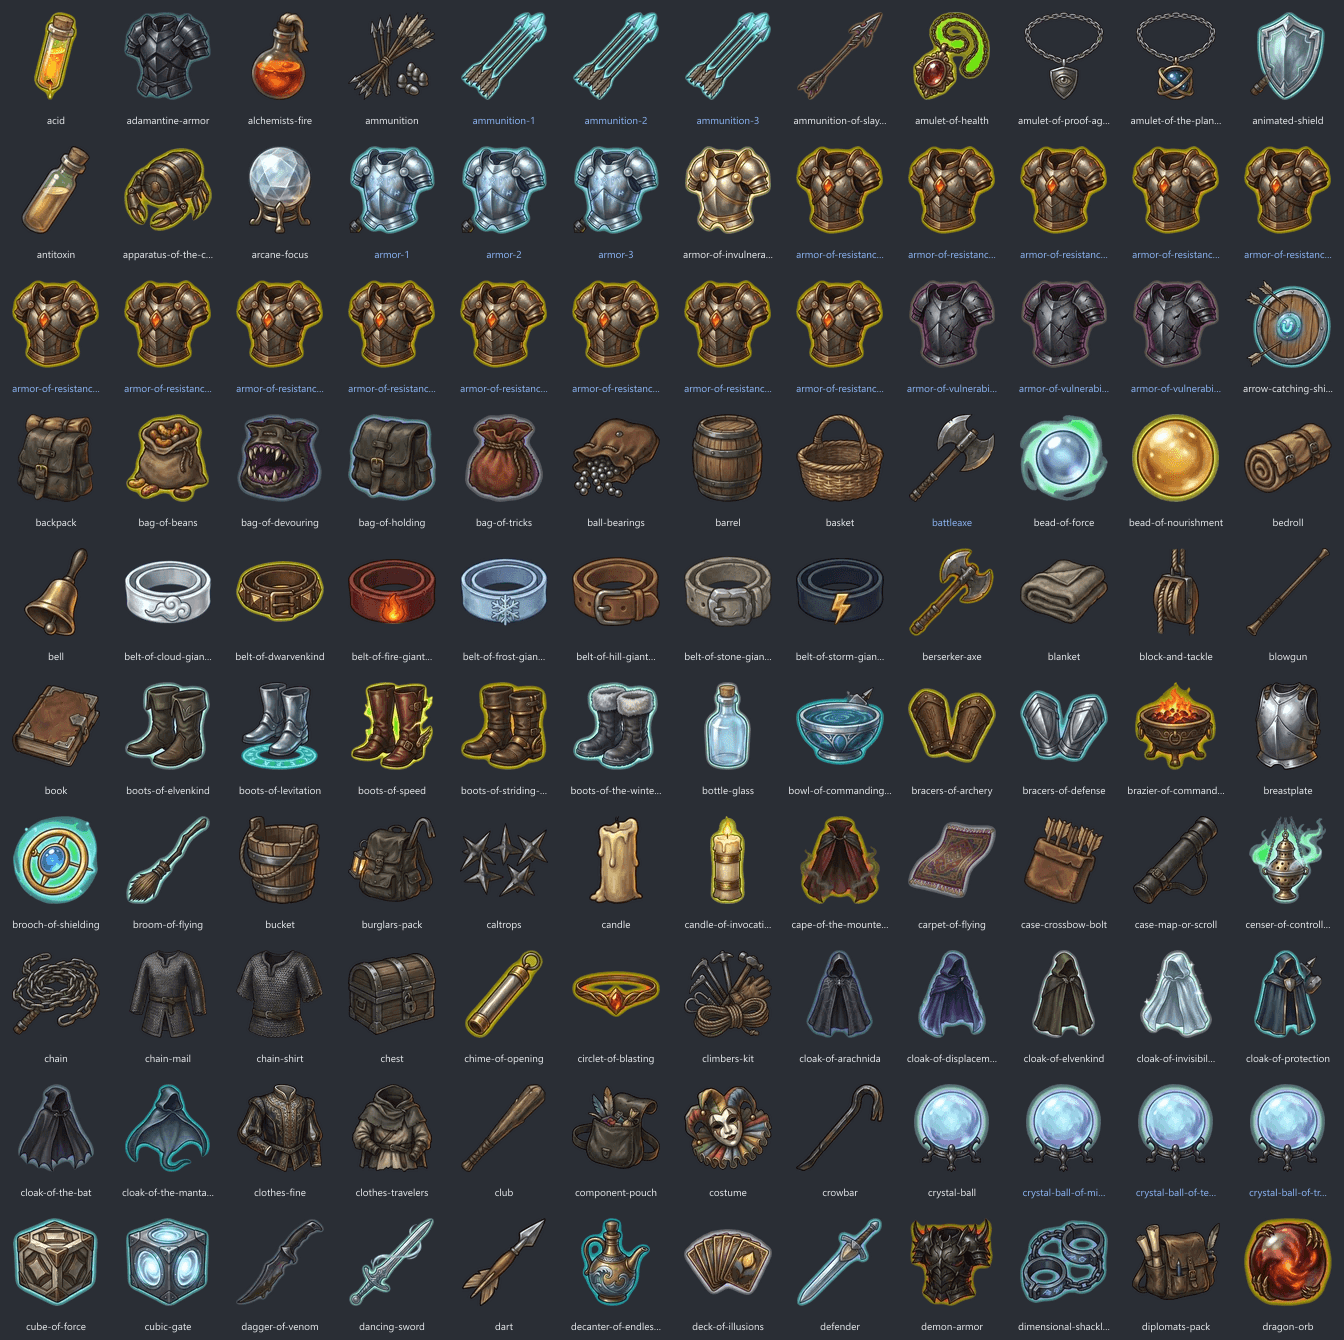
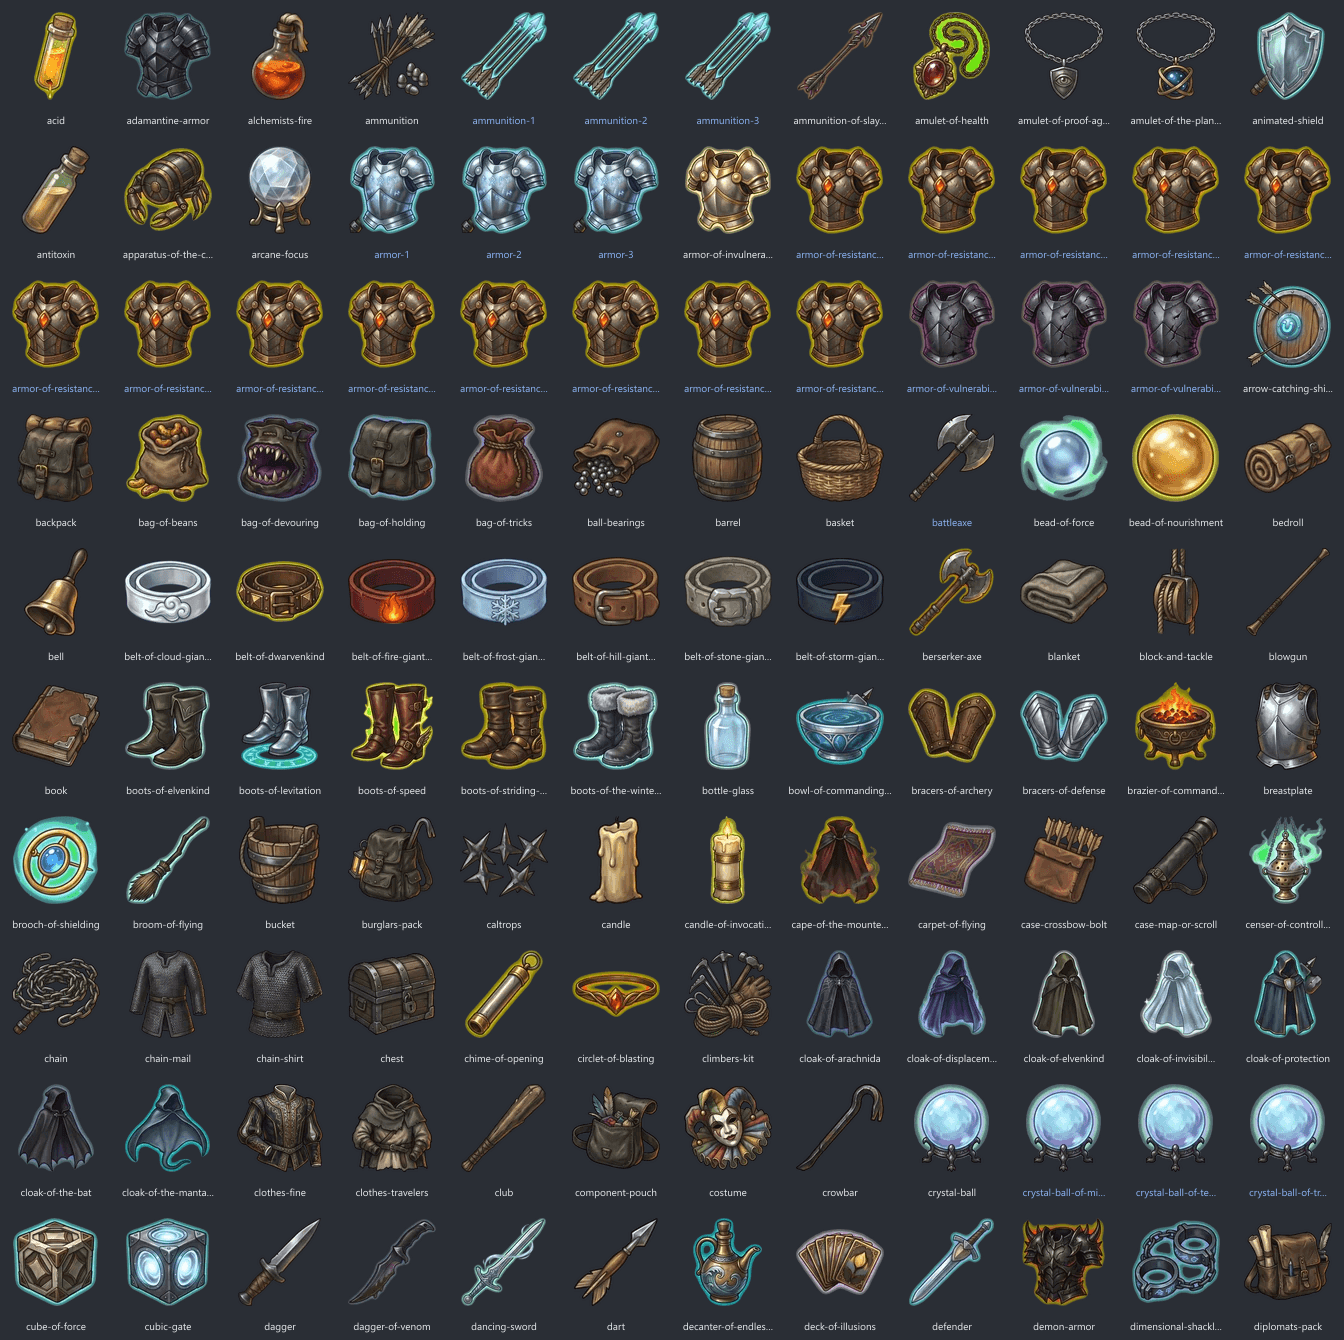
Eşya ikonları tamam: duzeltme-09 ve üç silah hücresi (449/449)
- silah-1 #6 mace, #11 light-crossbow, silah-2 #3 lance bağlandı (hücreler temiz).
- duzeltme-09.jpg (5×2): dagger, warhammer, spyglass ve dört iyileştirme iksiri; varyant-1#4 ve donanim-05#3 çözüldü.
- tamDespill hücrelerinde yarı saydam hale G ≤ (R+B)/2 (sarı-yeşil hale altına döndü).
- Rapor: yeniden üretilecekte açık/çözüldü; ikonsuz 0. dd-gorsel yenilendi.
- Test değerleri: galeri.test eksik eşya 5 → 0 (ikonlar tamamlandı); esyaIkon.test eksik sayfayı atlar, dosyası olan sayfanın işlendiğini sınar.

diff --git a/src/dungeondex/esyaIkon.test.ts b/src/dungeondex/esyaIkon.test.ts
@@ -4,7 +4,7 @@
  * public/esya yalnız dosya adıyla denetlenir.
  */
 import { describe, expect, it } from 'vitest';
-import { bagla, dosyaAdi, esle, hucreler, oyunKayitlari, plan, varyantEsle, type Manifest } from '../../scripts/esya-ikon.mjs';
+import { bagla, dosyaAdi, esle, hucreler, oyunKayitlari, plan, sayfaAdi, varyantEsle, type Manifest } from '../../scripts/esya-ikon.mjs';
 import manifestJson from '../../data/esya-ikon-sayfalar.json';
 
 const manifest = manifestJson as unknown as Manifest;
@@ -12,6 +12,8 @@ const manifest = manifestJson as unknown as Manifest;
 const ad = (f: string) => f.slice(f.lastIndexOf('/') + 1);
 const ESYA = Object.keys(import.meta.glob('/public/esya/*.webp')).map(ad);
 const KUCUK = new Set(Object.keys(import.meta.glob('/public/esya/kucuk/*.webp')).map(ad));
+/** assets-ham/esya ham sayfa adları (yalnız ad; görsel açılmaz, depo dışı: CI'da boş). */
+const HAM = new Set(Object.keys(import.meta.glob('/assets-ham/esya/*.{jpg,png,webp}')).map(ad));
 
 describe('Eşya ikon hattı', () => {
   it('dosya adı: varyant kimliğinde / yerine --', () => {
@@ -72,15 +74,38 @@ describe('Eşya ikon hattı', () => {
   it('manifest: glif sayfaları yoksayılır; her sayfanın öğesi hücre sayısını aşmaz; public/esya yalnız bağlanan oyun kayıtları', () => {
     expect(manifest.yoksay).toEqual(expect.arrayContaining(['glif-1', 'glif-2']));
     for (const s of manifest.sayfalar) expect(s.ogeler.length, s.dosya).toBeLessThanOrEqual(s.kolon * s.satir);
-    if (!ESYA.length) return; // hat çalıştırılmamış (ham görseller depo dışı)
+    if (!ESYA.length) return; // hat çalıştırılmamış
     const kayitlar = oyunKayitlari();
-    const { cikti } = bagla(plan(esle(manifest, kayitlar).manifest, () => true).son, kayitlar);
     const oyun = new Set(kayitlar.map((k) => k.id));
-    for (const id of cikti.keys()) {
-      expect(ESYA.includes(`${dosyaAdi(id)}.webp`), id).toBe(true);
-      expect(KUCUK.has(`${dosyaAdi(id)}.webp`), id).toBe(true);
+    for (const f of ESYA) expect(KUCUK.has(f), f).toBe(true);
+    expect(KUCUK.size).toBe(ESYA.length);
+    // Tam karşılaştırma yalnız ham sayfalar yereldeyse (depo dışı); eksik sayfa hattaki gibi atlanır.
+    if (HAM.size) {
+      const { cikti } = bagla(plan(esle(manifest, kayitlar).manifest, (d: string) => HAM.has(d)).son, kayitlar);
+      for (const id of cikti.keys()) expect(ESYA.includes(`${dosyaAdi(id)}.webp`), id).toBe(true);
+      expect(ESYA.length).toBe(cikti.size);
+      // Dosyası olan her sayfa gerçekten işlenir: eksik diye atlanmaz ve her dolu hücresi ya kaydın son konumu ya da sonraki sayfaca ezilmiş.
+      const es = esle(manifest, kayitlar).manifest;
+      const p = plan(es, (d: string) => HAM.has(d));
+      const yoksay = new Set(manifest.yoksay ?? []);
+      for (const s of es.sayfalar) {
+        const ad = sayfaAdi(s.dosya);
+        if (!HAM.has(s.dosya) || yoksay.has(ad)) continue;
+        expect(p.atlanan, s.dosya).not.toContain(ad);
+        s.ogeler.forEach((o, i) => {
+          if (!o?.id) return;
+          const yer = `${ad}#${i + 1}`; const son = p.son.get(o.id);
+          const sonYer = son ? `${son.sayfa}#${son.hucre}` : '';
+          expect(sonYer === yer || p.ezilen.some(([id, eski]) => id === o.id && eski === yer), `${yer} ${o.id}`).toBe(true);
+        });
+      }
+      if (HAM.has('duzeltme-09.jpg')) {
+        for (const id of ['dagger', 'warhammer', 'spyglass', 'potion-of-healing', 'potion-of-greater-healing', 'potion-of-superior-healing', 'potion-of-supreme-healing']) {
+          expect(cikti.get(id)?.sayfa, id).toBe('duzeltme-09');
+          expect(ESYA.includes(`${id}.webp`) && KUCUK.has(`${id}.webp`), id).toBe(true);
+        }
+      }
     }
-    expect(ESYA.length).toBe(cikti.size);
     for (const f of ESYA) expect(oyun.has(f.replace(/\.webp$/, '')), f).toBe(true); // yalnız oyun kayıtları
   });
 });

diff --git a/scripts/esya-ikon-rapor.ts b/scripts/esya-ikon-rapor.ts
@@ -89,15 +89,13 @@ ${Object.entries(belirsiz).map(([k, v]) => `- **${k}**: ${Array.isArray(v) ? v.m
 - Ezilen hücre: ${ezilen.length}. ${etkisiz.length ? `\`ayniGorsel\` uygulanamayan: ${etkisiz.join('; ')}.` : ''}
 - Tam despill (cam içi yeşil ton): ${liste(ham.tamDespill ?? [])}.
 
-## Yeniden üretilecek (${yeniden.length})
+## Yeniden üretilecek (açık ${yeniden.filter(([k]) => !ezilen.some(([, eski]: string[]) => eski === k)).length} / ${yeniden.length})
 
-${yeniden.length ? yeniden.map(([k, v]) => `- **${k}** ${v}`).join('\n') : '—'}
+${yeniden.length ? yeniden.map(([k, v]) => { const ez = ezilen.find(([, eski]: string[]) => eski === k); return `- **${k}** ${v}${ez ? ` — **çözüldü**: ${ez[2]} ezer` : ''}`; }).join('\n') : '—'}
 
 ## İkonu olmayan oyun kayıtları (${ikonsuz.length})
 
 ${['sihirli', 'donanım', 'silah', 'zırh'].map((t) => { const l = ikonsuz.filter((k) => k.tur === t); return `- **${t}** (${l.length}): ${liste(l.map((k) => k.id))}`; }).join('\n')}
-
-Yeni Gemini sayfası bu liste için yazılacak.
 
 ## Varyant eşleme (${es.varyant.length})
 

diff --git a/src/ui/galeri/galeri.test.tsx b/src/ui/galeri/galeri.test.tsx
@@ -24,8 +24,8 @@ describe('görsel galerisi', () => {
     const miss = filterRecords(all, '', true);
     expect(miss.length).toBeGreaterThan(0);
     expect(miss.every(([, r]) => r.durum !== 'var')).toBe(true);
-    // Eşya ikon hattından sonra (npm run esya-ikon + dd-gorsel) yalnız 5 silah ikonsuz: dagger, mace, light-crossbow, warhammer, lance.
-    expect(filterRecords(tabRecords('esya'), '', true).map(([id]) => id).sort()).toEqual(['dagger', 'lance', 'light-crossbow', 'mace', 'warhammer']);
+    // Eşya ikon hattından sonra (npm run esya-ikon + dd-gorsel; duzeltme-09 ile) her eşya kaydının ikonu var.
+    expect(filterRecords(tabRecords('esya'), '', true)).toEqual([]);
   });
 
   it('efekt şeritleri çözülüyor (fxPlan kaydı ya da durum döngüsü)', () => {

diff --git a/DECISIONS.md b/DECISIONS.md
@@ -11,8 +11,9 @@ Projede alınan içerik ve kural kararlarının kaydı. En yeni karar en üstte.
 
 - `npm run esya-ikon` (`scripts/esya-ikon.mjs`, sharp): manifest `data/esya-ikon-sayfalar.json` + `assets-ham/esya/` (depo dışı) → `public/esya/<kimlik>.webp` (256) ve `public/esya/kucuk/` (96); varyant kimliğinde `/` → `--`. Zemin dört köşeden; kenardan taşkın dolgu, yarı saydam kenarda zeminden ayrıştırma (unmix) + 6 px despill; kapalı deliklerde yalnız zemine çok yakın yeşil silinir (cam iç hacmi kalır); en büyük bileşenin %6'sı altı atılır (`hepsiniTut` hariç). Hücre kırpımı her yöne %15 genişletilir, yalnız ağırlık merkezi asıl hücrede olan bileşen tutulur (silah-4 plate armor, donanım-05 çadır komşuya taşıyordu). Kırpma kutusu α > 48 (yaygın parıltı kuyruğu kesilir). `--kontrol` etiketli kontrol görselleri `harita/belgeler/ESYA-IKON-KONTROL/`.
 - `ayniGorsel` hedefin sonraki sayfadaki kendi hücresini ezmez (potion-of-healing duzeltme-7'de).
-- **Kimlik bağlama (kullanıcı kararı, onaydan sonra):** varyant kimliği `<ana>/<varyant>` oyunun açılmış kaydına kuralla eşlenir (`esle`/`varyantEsle`): adaylar `srd` kimliği `<ana>` olan ve kimliği farklı kayıtlar, kimliğinde `<varyant>` tire sınırlı parça olarak geçen tek aday seçilir (15 eşlendi: iyileştirme iksirleri, dev gücü iksiri ve kemeri). Tek aday yoksa eşleşmez (64: oyunda açılmamış varyantlar, ör. dragon-scale-mail, figurine, ioun-stone, enstrüman), birden çoksa belirsiz (0); ikisi de bağlanmaz. SRD üst kimliği (11, ör. `armor-of-resistance`, `weapon-1-2-or-3`) kendi varyant ikonu olmayan bütün açılmış kayıtlara kopyalanır (`bagla`, 57 kayıt). Oyunda kaydı olmayan kimlikler (alet/kit, enstrüman, `shield`, `thieves-tools`) ve eşleşmeyen varyantlar "kayıtsız": ikon üretilir ama `public/esya/`'ya yazılmaz; tam çalıştırma artık kaydı olmayan eski çıktıları siler. Sonuç: 449 oyun kaydının 444'ü ikonlu, ikonsuz `dagger`, `mace`, `light-crossbow`, `warhammer`, `lance` (yeni Gemini sayfası bekliyor).
+- **Kimlik bağlama (kullanıcı kararı, onaydan sonra):** varyant kimliği `<ana>/<varyant>` oyunun açılmış kaydına kuralla eşlenir (`esle`/`varyantEsle`): adaylar `srd` kimliği `<ana>` olan ve kimliği farklı kayıtlar, kimliğinde `<varyant>` tire sınırlı parça olarak geçen tek aday seçilir (15 eşlendi: iyileştirme iksirleri, dev gücü iksiri ve kemeri). Tek aday yoksa eşleşmez (64: oyunda açılmamış varyantlar, ör. dragon-scale-mail, figurine, ioun-stone, enstrüman), birden çoksa belirsiz (0); ikisi de bağlanmaz. SRD üst kimliği (11, ör. `armor-of-resistance`, `weapon-1-2-or-3`) kendi varyant ikonu olmayan bütün açılmış kayıtlara kopyalanır (`bagla`, 57 kayıt). Oyunda kaydı olmayan kimlikler (alet/kit, enstrüman, `shield`, `thieves-tools`) ve eşleşmeyen varyantlar "kayıtsız": ikon üretilir ama `public/esya/`'ya yazılmaz; tam çalıştırma artık kaydı olmayan eski çıktıları siler. İlk turda 449 kaydın 444'ü ikonluydu (ikonsuz 5 silah; aşağıdaki düzeltmeyle kapandı).
 - **Temizlik:** cam içinden yeşil zemin görünen iksirlerde (duzeltme-7 #1–3) manifest `tamDespill` despill'i bütün nesneye uygular (cam nötr gri; yeşil nesnede kullanılmaz). varyant-1#4 (supreme iksir, arkada silah sapı) ve donanim-05#3 (dürbün, arkada balta ağzı) nesneye bitişik, bileşen/kırpmayla ayrılmıyor: manifest `yenidenUretilecek`. varyant-1#1 duzeltme-7#1 ile ezildiği için çıktıda yok. hammer-of-thunderbolts parıltısı kaldı (kullanıcı kararı).
+- **Manifest düzeltmesi:** silah-1 #6 `mace`, #11 `light-crossbow`, silah-2 #3 `lance` bağlandı (hücreler temiz: nesne kendi hücresinde, kesik yok; paydaki komşu parçalar ayrı bileşen). silah-1 #5 boş kalır (light-hammer duzeltme-8'den). Yeni sayfa `duzeltme-09.jpg` (5 × 2; klasördeki gerçek ad sıfırlı) manifestte: 1 dagger, 2 warhammer, 6 spyglass, 7–10 dört iyileştirme iksiri; 3–5 atlanır. Son sayfa olduğu için varyant-1, duzeltme-7 ve donanim-05 #3'ü ezer. `tamDespill` dört iksirin oyun kimliğine bağlandı; duzeltme-09 iksirlerinin altın halesi yeşil zemin üstüne çizildiği için ayrıştırmadan sonra G ≈ R (sarı-yeşil) kalıyordu: `tamDespill` hücrelerinde yarı saydam hale pikselleri G ≤ (R + B) / 2 ile ısıtılır, opak kısımlar (cam, mantar, altın metal) G ≤ max(R, B). Sonuç: hale amber/altın, yeşil baskın piksel 0–4 / ≈4–5 bin; açık zeminde haki-altın okunur. Rapor, ezilen `yenidenUretilecek` hücresini "çözüldü" diye yazar (varyant-1#4 ve donanim-05#3 duzeltme-09 ile çözüldü). Sonuç: 449/449 eşya kaydı ikonlu. Test: ham sayfa adları `import.meta.glob` ile (görsel açılmaz); dosyası olan sayfa atlanmamalı ve her dolu hücresi son konum ya da ezilmiş olmalı, duzeltme-09 varken yedi kimliğin son konumu o sayfa.
 - **Dungeondex vitrini:** eşya kaydında `public/esya/<kimlik>.webp` gösterilir (yoksa yer tutucu); canavar jetonuyla aynı yol.
 - `scripts/lib/gorsel-envanter.ts` kök yolu `fileURLToPath` ile (Windows'ta `new URL().pathname` `D:\D:\…` veriyordu; `npm run dd-gorsel` yerelde çalışmıyordu).
 - **Tam test notu:** `src/content/as2.test.ts` yerelde düşüyor ("Champion" ≠ "Gladiator"): ilgisiz, yerel `icerik/` eski (git dışı `icerik/ek-fighter.json` fikstürdeki yeni adı taşımıyor); dokunulmadı.

diff --git a/harita/belgeler/ESYA-IKON-RAPOR.md b/harita/belgeler/ESYA-IKON-RAPOR.md
@@ -7,31 +7,28 @@ Manifest `data/esya-ikon-sayfalar.json`, ham sayfalar `assets-ham/esya/` (depo d
 
 - **duzeltme-5**: hücre 5 ring-of-free-action ve 6 wand-of-web tahmindir; 3 potion-of-animal-friendship (duzeltme-2'yi ezer)
 - **silah-1#16**: çift ağızlı balta greataxe + battleaxe'a kopyalandı (battleaxe için ayrı ikon yok)
-- **ikonsuz_beklenen**: `mace`, `light-crossbow`, `lance`
 - **duzeltme-8**: hücre 1 spear (silah-1 #9'u ezer), 3 dart, 4 longsword, 6 war-pick (silah-2 #11'i ezer)
 
 ## Özet
 
-- İşlenen sayfa: 38 (yoksayılan: `zirh-donanim`, `duzeltme-1`, `pilot`, `glif-1`, `glif-2`).
-- Oyun eşya kaydı: 449 (sihirli 319 + donanım 80 + silah 38 + zırh 12); ikonlu **444**, ikonsuz **5**.
-- `public/esya/`: yalnız oyun kayıtları, 444 × 256 px + 444 × 96 px, toplam **9.0 MB** (256 px 7319 kB, 96 px 1868 kB). Ana parçaya girmez.
+- İşlenen sayfa: 39 (yoksayılan: `zirh-donanim`, `duzeltme-1`, `pilot`, `glif-1`, `glif-2`).
+- Oyun eşya kaydı: 449 (sihirli 319 + donanım 80 + silah 38 + zırh 12); ikonlu **449**, ikonsuz **0**.
+- `public/esya/`: yalnız oyun kayıtları, 449 × 256 px + 449 × 96 px, toplam **9.1 MB** (256 px 7384 kB, 96 px 1885 kB). Ana parçaya girmez.
 - Varyant eşlendi **15**, eşleşmeyen **64**, belirsiz **0**; SRD üst kimliği kopyası **11** kimlik → 57 kayıt; kayıtsız (yazılmadı) **89** (64 eşleşmeyen varyant + 25 diğer).
-- Ezilen hücre: 63. `ayniGorsel` uygulanamayan: potions-of-healing: kaynak kimliğin hücresi yok (potion-of-healing kopyalanmadı).
-- Tam despill (cam içi yeşil ton): `potion-of-healing`, `potions-of-healing/greater`, `potions-of-healing/superior`.
+- Ezilen hücre: 68. `ayniGorsel` uygulanamayan: potions-of-healing: kaynak kimliğin hücresi yok (potion-of-healing kopyalanmadı).
+- Tam despill (cam içi yeşil ton): `potion-of-healing`, `potion-of-greater-healing`, `potion-of-superior-healing`, `potion-of-supreme-healing`.
 
-## Yeniden üretilecek (2)
+## Yeniden üretilecek (açık 0 / 2)
 
-- **varyant-1#4** potions-of-healing/supreme: şişenin arkasında silah sapı; şişeye bitişik, bileşen ya da kırpmayla ayrılmıyor
-- **donanim-05#3** spyglass: dürbünün arkasında balta ağzı; dürbüne bitişik, bileşen ya da kırpmayla ayrılmıyor
+- **varyant-1#4** potions-of-healing/supreme: şişenin arkasında silah sapı; şişeye bitişik, bileşen ya da kırpmayla ayrılmıyor — **çözüldü**: duzeltme-09#10 ezer
+- **donanim-05#3** spyglass: dürbünün arkasında balta ağzı; dürbüne bitişik, bileşen ya da kırpmayla ayrılmıyor — **çözüldü**: duzeltme-09#6 ezer
 
-## İkonu olmayan oyun kayıtları (5)
+## İkonu olmayan oyun kayıtları (0)
 
 - **sihirli** (0): —
 - **donanım** (0): —
-- **silah** (5): `dagger`, `mace`, `light-crossbow`, `warhammer`, `lance`
+- **silah** (0): —
 - **zırh** (0): —
-
-Yeni Gemini sayfası bu liste için yazılacak.
 
 ## Varyant eşleme (15)
 
@@ -166,7 +163,7 @@ SRD dosyasında 258 kayıt var; oyun (`data/items.json` + `data/items-srd.json`)
 | `weapon-1-2-or-3` | `weapon-1`, `weapon-2`, `weapon-3` | 2 |
 | **Toplam** | | **61** |
 
-## Ezilen hücreler (63)
+## Ezilen hücreler (68)
 
 Sonraki sayfa öncekini ezer (manifest sırası).
 
@@ -233,6 +230,11 @@ Sonraki sayfa öncekini ezer (manifest sırası).
 - `dart`: silah-1#10 → duzeltme-8#3
 - `trident`: silah-2#10 → duzeltme-8#5
 - `war-pick`: silah-2#11 → duzeltme-8#6
+- `spyglass`: donanim-05#3 → duzeltme-09#6
+- `potion-of-healing`: duzeltme-7#1 → duzeltme-09#7
+- `potion-of-greater-healing`: duzeltme-7#2 → duzeltme-09#8
+- `potion-of-superior-healing`: duzeltme-7#3 → duzeltme-09#9
+- `potion-of-supreme-healing`: varyant-1#4 → duzeltme-09#10
 
 ## Kontak sayfaları (96 px)
 

diff --git a/harita/belgeler/GORSEL-ENVANTER.md b/harita/belgeler/GORSEL-ENVANTER.md
@@ -9,7 +9,7 @@
 | Kategori | Kayıt | Var | Genel | Yedek | Kaynak (eşlemede) |
 |---|---|---|---|---|---|
 | Büyü | 339 | 161 | 66 | 112 | efekt 221, ikon 6, yedek 112 |
-| Eşya | 449 | 444 | 0 | 5 | ikon 444, yedek 5 |
+| Eşya | 449 | 449 | 0 | 0 | ikon 449 |
 | Canavar | 330 | 290 | 40 | 0 | jeton 330 |
 | Tür | 10 | 10 | 0 | 0 | jeton 10 |
 | Alt soy | 41 | 32 | 9 | 0 | jeton 41 |
@@ -22,9 +22,9 @@
 | Harita nesnesi | 34 | 2 | 0 | 32 | efekt 2, yedek 32 |
 | Büyü alanı (savaşta) | 36 | 30 | 1 | 5 | efekt 31, yedek 5 |
 | Zar teması | 72 | 63 | 0 | 9 | ikon 63, yedek 9 |
-| **Toplam** | **1534** | **1187** | **116** | **231** | |
+| **Toplam** | **1534** | **1192** | **116** | **226** | |
 
-Dungeondex denetimi: Dungeondex'in 1383 kaydının hepsi eşlemede, her `ref` çözülüyor (public/ dosyası ya da `yedekler` anahtarı): sorun 0. CSV 271 satır.
+Dungeondex denetimi: Dungeondex'in 1383 kaydının hepsi eşlemede, her `ref` çözülüyor (public/ dosyası ya da `yedekler` anahtarı): sorun 0. CSV 266 satır.
 
 ## Eksik ve düzeltilecek
 
@@ -513,14 +513,16 @@ Eşyanın hiçbir görseli yok: `src/ui/icons.tsx` yalnız ana menünün 10 SVG 
 | `esya/wind-fan.webp` |  | 1 |
 | `esya/winged-boots.webp` |  | 1 |
 | `esya/wings-of-flying.webp` |  | 1 |
-| `yedek:esya-silah` | ⚔ | 5 |
+| `esya/dagger.webp` |  | 1 |
 | `esya/handaxe.webp` |  | 1 |
 | `esya/javelin.webp` |  | 1 |
+| `esya/mace.webp` |  | 1 |
 | `esya/quarterstaff.webp` |  | 1 |
 | `esya/spear.webp` |  | 1 |
 | `esya/greatclub.webp` |  | 1 |
 | `esya/light-hammer.webp` |  | 1 |
 | `esya/sickle.webp` |  | 1 |
+| `esya/light-crossbow.webp` |  | 1 |
 | `esya/shortbow.webp` |  | 1 |
 | `esya/battleaxe.webp` |  | 1 |
 | `esya/flail.webp` |  | 1 |
@@ -535,6 +537,7 @@ Eşyanın hiçbir görseli yok: `src/ui/icons.tsx` yalnız ana menünün 10 SVG 
 | `esya/scimitar.webp` |  | 1 |
 | `esya/shortsword.webp` |  | 1 |
 | `esya/trident.webp` |  | 1 |
+| `esya/warhammer.webp` |  | 1 |
 | `esya/whip.webp` |  | 1 |
 | `esya/hand-crossbow.webp` |  | 1 |
 | `esya/heavy-crossbow.webp` |  | 1 |
@@ -542,6 +545,7 @@ Eşyanın hiçbir görseli yok: `src/ui/icons.tsx` yalnız ana menünün 10 SVG 
 | `esya/club.webp` |  | 1 |
 | `esya/dart.webp` |  | 1 |
 | `esya/sling.webp` |  | 1 |
+| `esya/lance.webp` |  | 1 |
 | `esya/pike.webp` |  | 1 |
 | `esya/war-pick.webp` |  | 1 |
 | `esya/blowgun.webp` |  | 1 |
